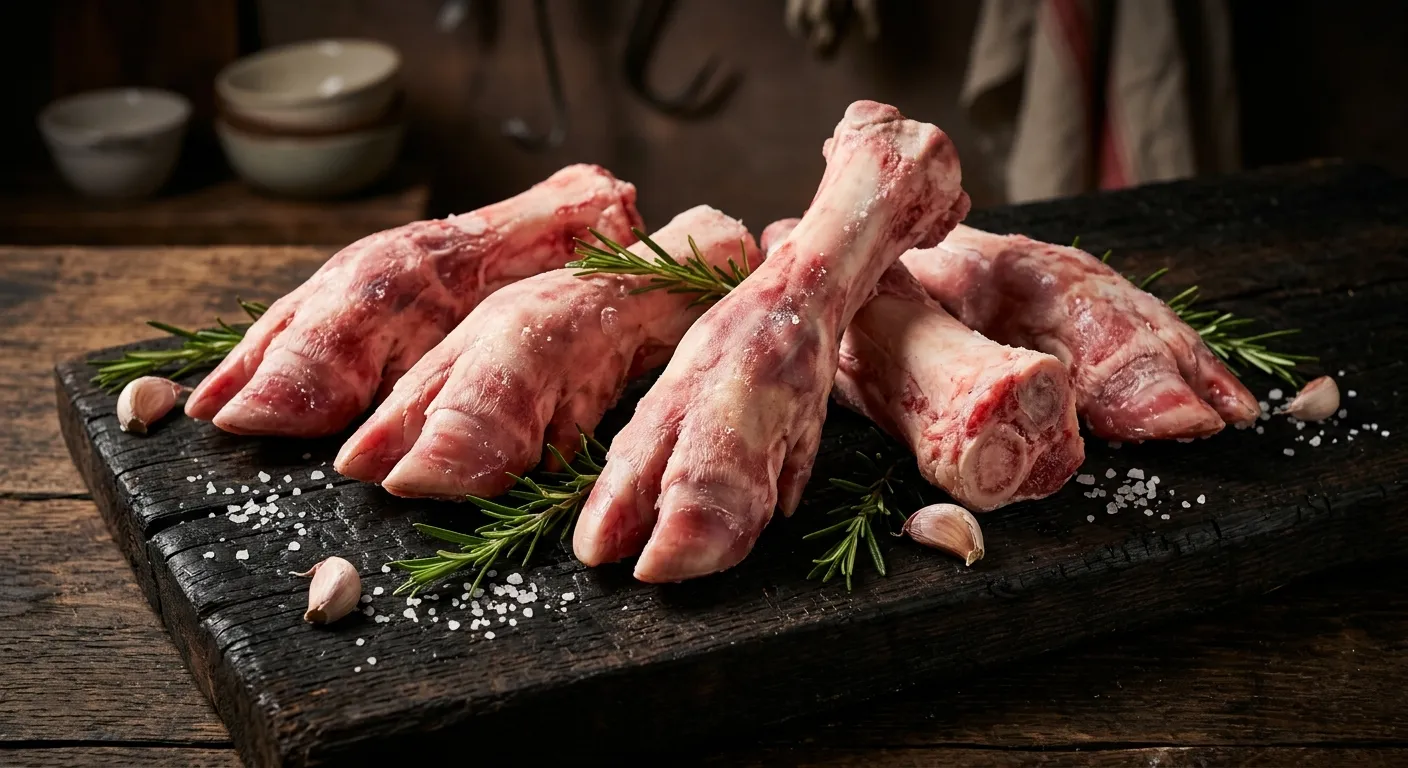
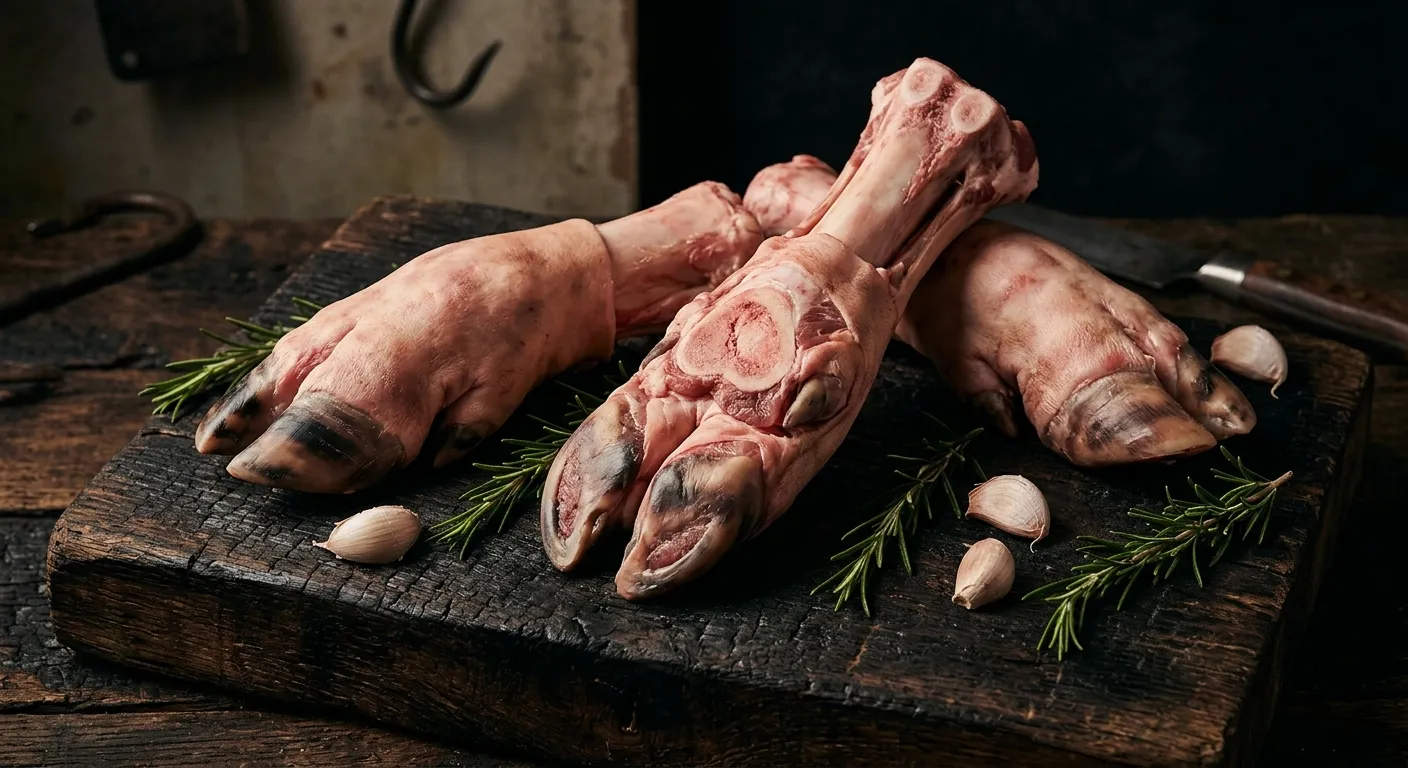
Meat shop: fix 4 item images (paya/knuckle/kidneys/head), remove duplicate products, add image tooling scripts

diff --git a/src/App.jsx b/src/App.jsx
@@ -26,7 +26,6 @@ import beefTripe from './assets/beef_tripe.webp';
 import beefPaya from './assets/beef_paya.webp';
 import goatLambMix from './assets/goat_lamb_mix.webp';
 import goatLambLeg from './assets/goat_lamb_leg.webp';
-import goatLambLegPair from './assets/goat_lamb_leg_pair.webp';
 import goatLambHalf from './assets/goat_lamb_half.webp';
 import goatLambRibRack from './assets/goat_lamb_rib_rack.webp';
 import goatLambBoneless from './assets/goat_lamb_boneless.webp';
@@ -61,9 +60,7 @@ import goatLambChops from './assets/goat_lamb_chops.webp';
 import goatLambQeema from './assets/goat_lamb_qeema.webp';
 import goatLambRibs from './assets/goat_lamb_ribs.webp';
 import goatLambPuttNeck from './assets/goat_lamb_putt_neck.webp';
-import chickenLegQuarterBox from './assets/chicken_leg_quarter_box.webp';
 import chickenThighs from './assets/chicken_thighs.webp';
-import chickenBreastTahir from './assets/chicken_breast_tahir.webp';
 import chickenFajitaStrips from './assets/chicken_fajita_strips.webp';
 import chickenTenders from './assets/chicken_tenders.webp';
 import beefFiletMignon from './assets/beef_filet_mignon.webp';
@@ -71,7 +68,6 @@ import beefOxtail from './assets/beef_oxtail.webp';
 import goatLambLiver from './assets/goat_lamb_liver.webp';
 import goatLambHeart from './assets/goat_lamb_heart.webp';
 import lambShanks from './assets/lamb_shanks.webp';
-import chickenLegQuarterHalfBox from './assets/chicken_leg_quarter_half_box.webp';
 import frozenQuail from './assets/frozen_quail.webp';
 
 // Placeholder photography — store to replace with real product shots.
@@ -231,7 +227,6 @@ const MEAT_PRODUCTS = [
   createProduct('gl13', 'Goat / Lamb Rib Rack', 'Goat & Lamb', 14.99, { perLb: true, prepType: 'Bone-in', image: goatLambRibRack, badge: 'BONE-IN', description: 'Full rack of ribs, French-trimmed on request.' }),
 
   // ---- FROZEN GOAT/LAMB (8 live board lines; 2 struck out, omitted) ------
-  createProduct('gl14', 'Frozen Goat / Lamb Leg', 'Goat & Lamb', 7.99, { perLb: true, prepType: 'Bone-in', image: goatLambLegPair, badge: 'FROZEN', description: 'Bone-in leg, frozen.' }),
   createProduct('gl15', 'Frozen Lamb Shanks', 'Goat & Lamb', 6.99, { image: lambShanks, perLb: true, prepType: 'Bone-in', badge: 'FROZEN', description: 'Frozen lamb shanks for slow braising.' }),
   createProduct('gl16', 'Frozen Goat Bones', 'Goat & Lamb', 4.99, { perLb: true, prepType: 'Bone-in', image: goatBonesPng, badge: 'FOR STOCK', description: 'Goat bones for stock and soup.' }),
   createProduct('gl17', 'Frozen Goat Paya with Skin', 'Goat & Lamb', 5.99, { perLb: true, prepType: 'Bone-in', image: goatPayaSkinPng, badge: 'FROZEN', description: 'Goat trotters with the skin on, for paya.' }),
@@ -245,14 +240,9 @@ const MEAT_PRODUCTS = [
   // is the exception: its sticker reads 3.99 but a second figure is pencilled
   // beside it, so that line stays on "Call for price" until the store confirms.
   createProduct('c1', 'Whole Chicken', 'Chicken', null, { perLb: true, prepType: 'Whole', image: chickenWhole, badge: 'ZABIHA', description: 'Hand-slaughtered whole chicken. Cut up on request at no charge.' }),
-  createProduct('c2', 'Chicken Leg Quarters, Box', 'Chicken', 44.99, { image: chickenLegQuarterBox, prepType: 'Bone-in', badge: 'BULK BOX', description: 'Full box of leg quarters — the bulk buy.' }),
-  createProduct('c3', 'Chicken Leg Quarters, Half Box', 'Chicken', 24.99, { image: chickenLegQuarterHalfBox, prepType: 'Bone-in', badge: 'BULK BOX', description: 'Half box of leg quarters.' }),
   createProduct('c4', 'Chicken Boneless Breast', 'Chicken', 5.99, { perLb: true, prepType: 'Boneless', image: chickenBreast, badge: 'BONELESS', description: 'Skinless boneless breast fillets, trimmed.' }),
   createProduct('c5', 'Chicken Boneless Thigh', 'Chicken', 4.99, { perLb: true, prepType: 'Boneless', image: chickenBonelessThigh, badge: 'BONELESS', description: 'Skinless boneless thigh meat.' }),
   createProduct('c6', 'Chicken Drumsticks', 'Chicken', 2.69, { perLb: true, prepType: 'Bone-in', image: chickenDrumstick, badge: 'FAMILY FAVORITE', description: 'Fresh chicken drumsticks.' }),
-  createProduct('c7', 'Tahir Whole Chicken', 'Chicken', 3.99, { perLb: true, prepType: 'Whole', image: chickenWhole, badge: 'HFSAA CERTIFIED', description: 'Tahir brand — zabihah individual hand slaughter, cage free, no antibiotics ever.' }),
-  createProduct('c8', 'Tahir Leg Quarters', 'Chicken', 2.99, { image: chickenLegQuarters, perLb: true, prepType: 'Bone-in', badge: 'HFSAA CERTIFIED', description: 'Tahir brand leg quarters.' }),
-  createProduct('c9', 'Tahir Boneless Breast', 'Chicken', 5.99, { image: chickenBreastTahir, perLb: true, prepType: 'Boneless', badge: 'HFSAA CERTIFIED', description: 'Tahir brand boneless breast.' }),
   createProduct('c10', 'Chicken Qeema (Ground)', 'Chicken', 5.99, { perLb: true, prepType: 'Minced', image: chickenQeemaPng, badge: 'GROUND FRESH', description: 'Ground chicken for kebabs and keema.' }),
   createProduct('c11', 'Chicken Fajita Strips', 'Chicken', 5.99, { image: chickenFajitaStrips, perLb: true, prepType: 'Boneless', description: 'Boneless strips, cut for fajitas and stir-fry.' }),
   createProduct('c12', 'Chicken Tenders', 'Chicken', 5.99, { image: chickenTenders, perLb: true, prepType: 'Boneless', description: 'Breast tenderloins.' }),
